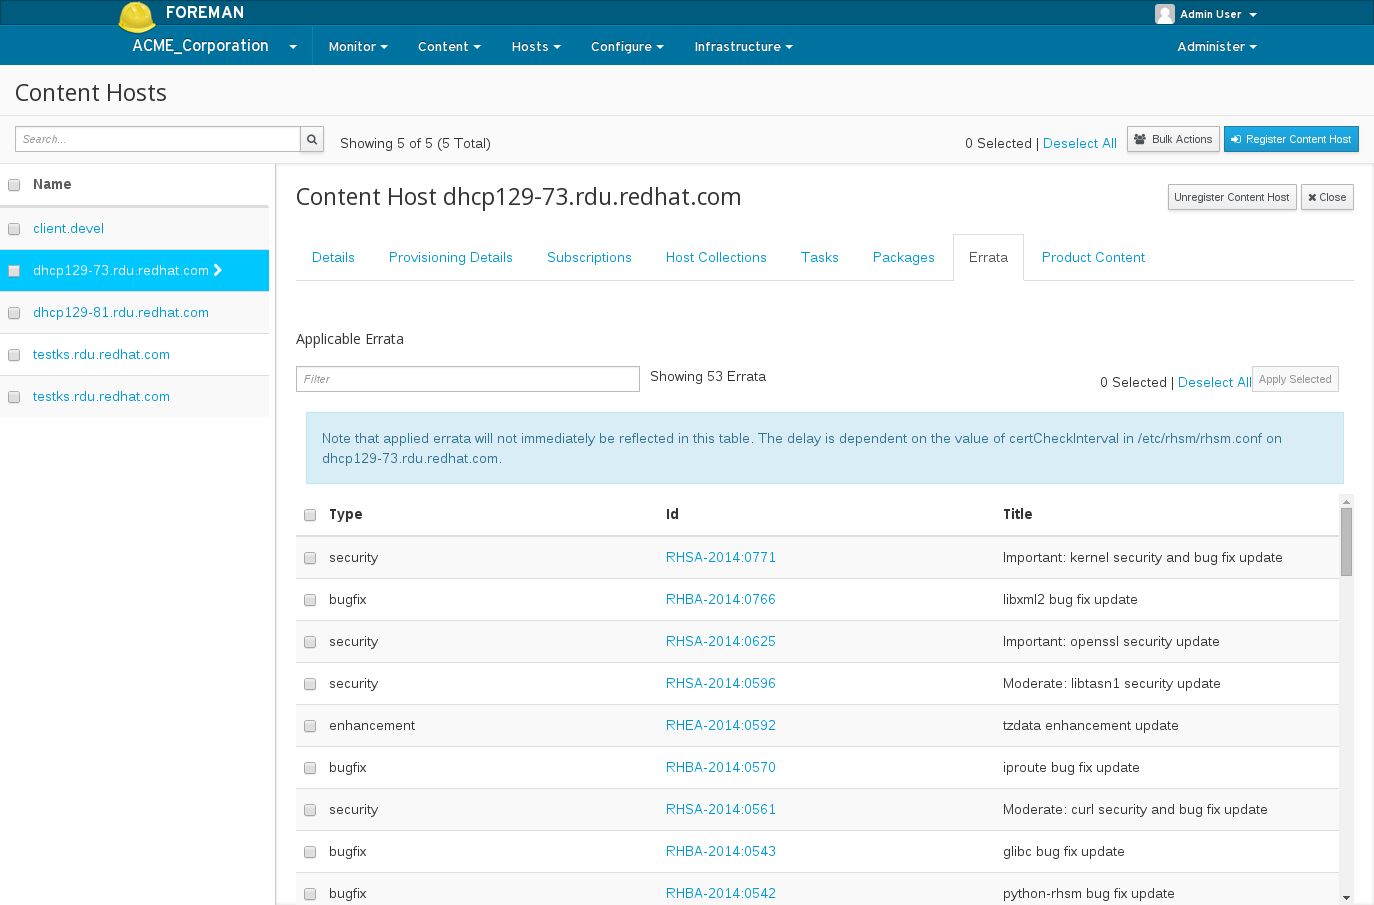
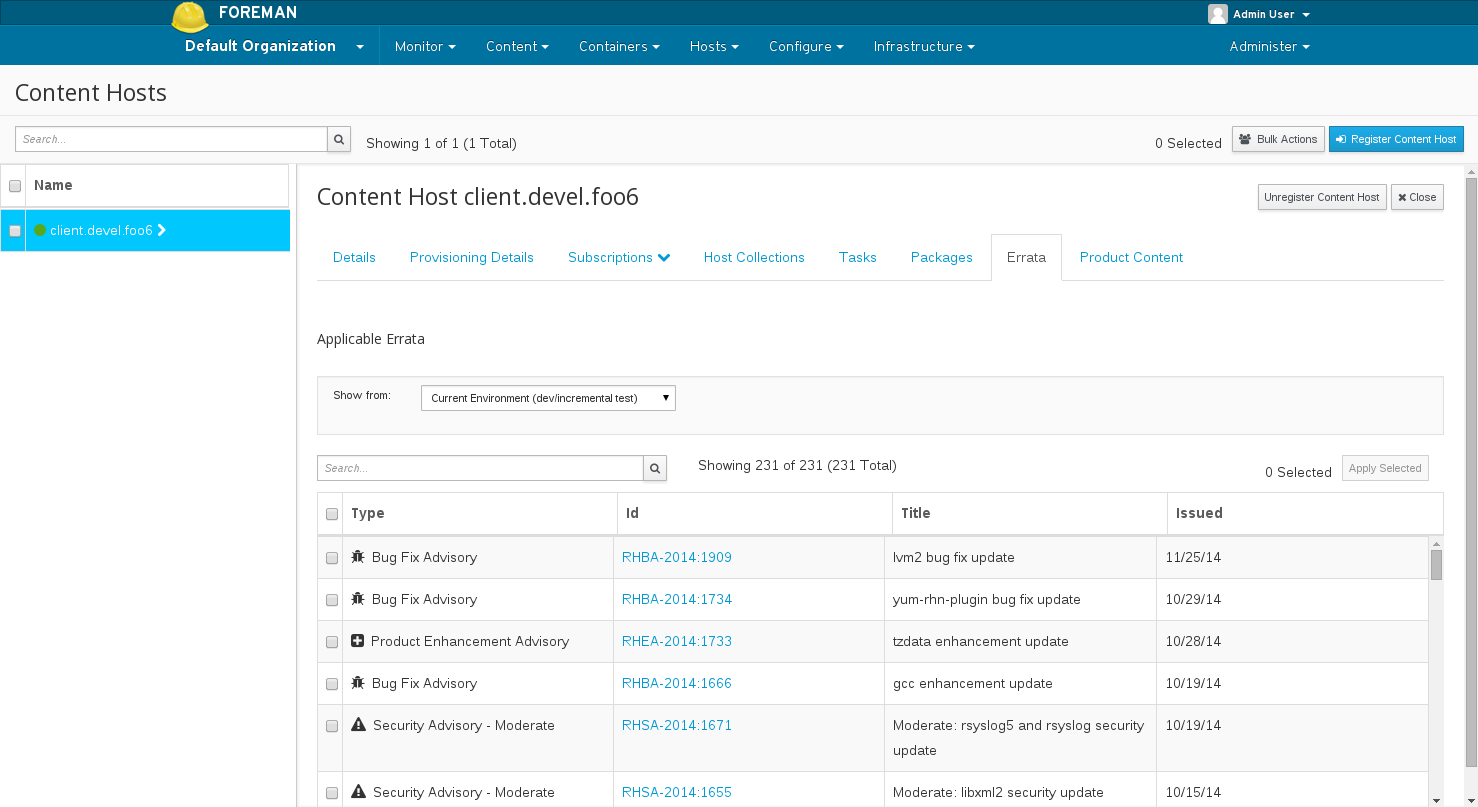
updating content host errata for 2.1

diff --git a/docs/user_guide/content_hosts/index.md b/docs/user_guide/content_hosts/index.md
@@ -139,6 +139,12 @@ Navigate to:   Hosts > Content Hosts > Select Content Host > Errata
 
 To apply errata, search for the errata you want and select the checkbox beside each errata.  Then click "Apply Selected" at the top right.
 
+The "Show From" filters what applicable errata to show:
+
+* Current Environment - Shows only Applicable Errata available in the Host's Content View & Lifecycle Environment.
+* Previous Environment - Shows Applicable Errata that are available from the Host's Content View but in the previous Lifecycle Environment.  Promoting the Content View Version from that previous Lifecycle Environment to the current Lifecycle Environment for this Host would cause all Applicable Errata shown to then be available.
+* Library Synced Content - Shows Applicable Errata which have been synced to the Library.  This shows you what is applicable even when the Errata have not been published into a Content View.  All applicable Errata are shown regardless of availability to the Content Host.
+
 ## Change Host Collection Asssignments
 
 To change Host Collection assignments for a Content Host, navigate to: Hosts > Content Hosts > Select Content Host > Host Collections
